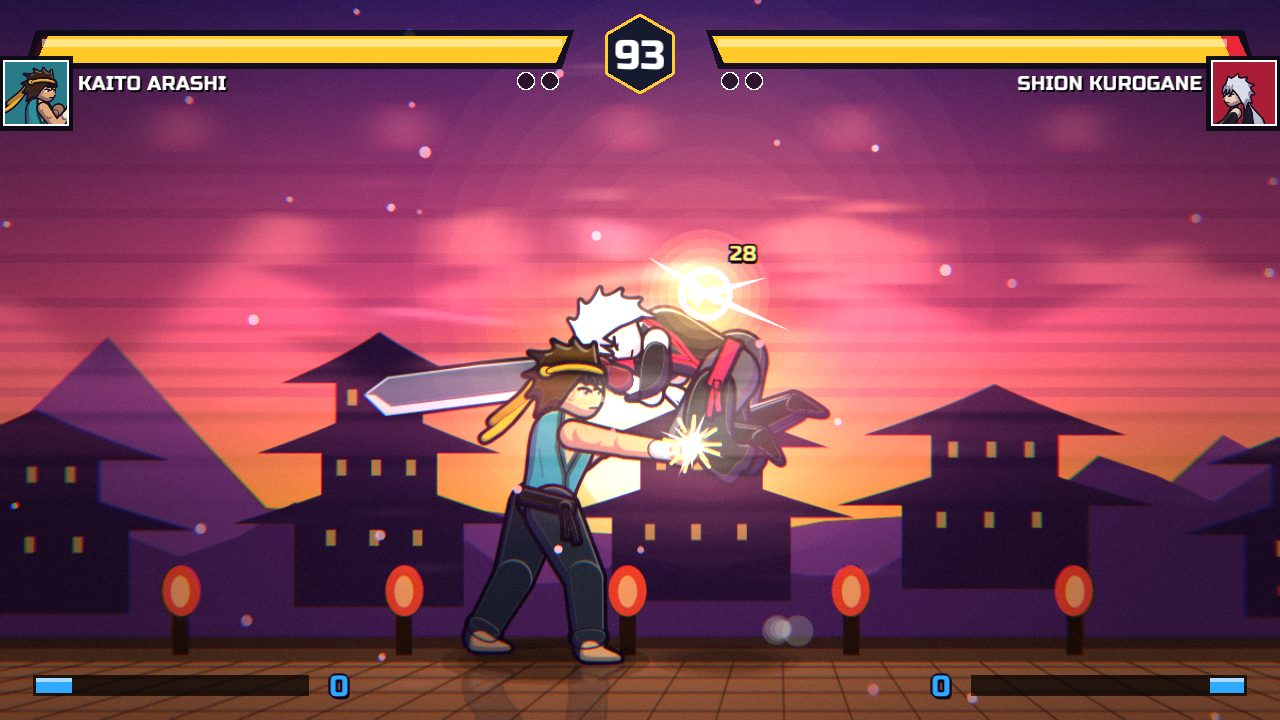
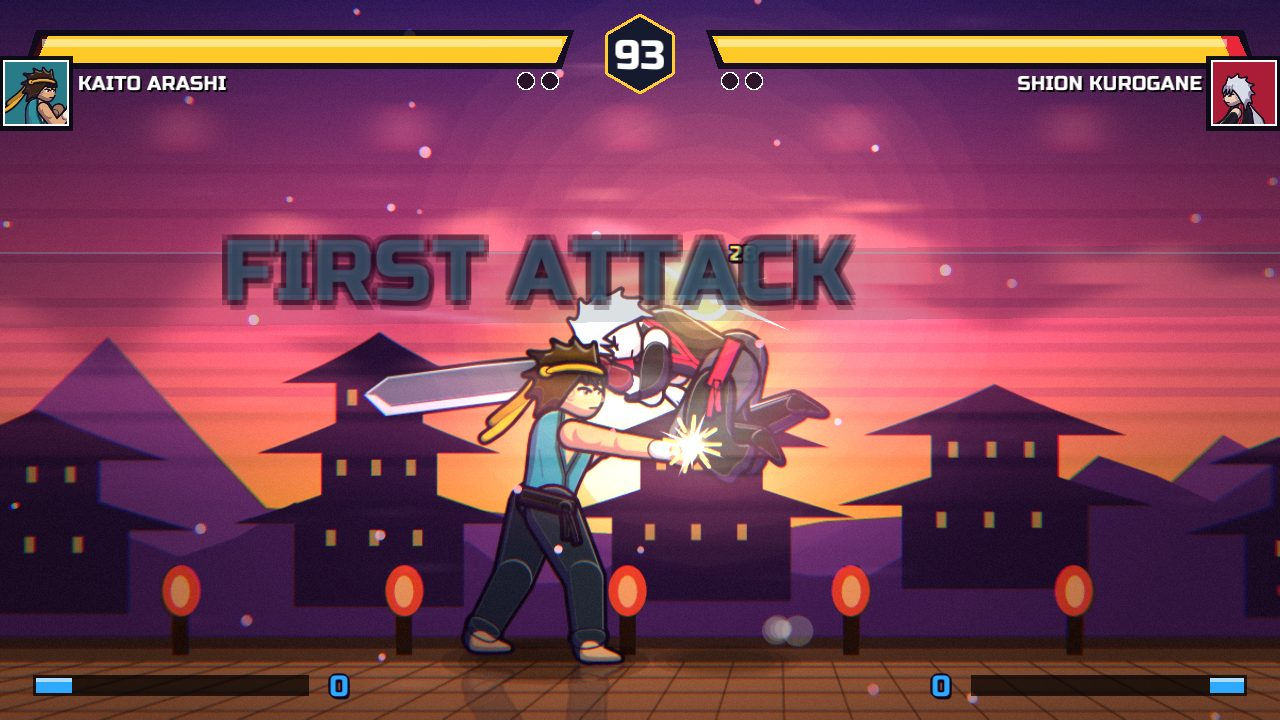
Training input history + last-combo data, FIRST ATTACK notice (research round 6)
- Hud: SF6-style input history (direction arrows, buttons, frames held) and persistent last-combo line in training
- Vfx: FIRST ATTACK banner once per round (not in training)
- docs/AAA_FEATURES.md: HUD / sound / training-mode research with sources; screenshots 40-training-hud, 06-fight-dojo

Claude-Session: https://claude.ai/code/session_01Cn6JQNuQujDi45zt7ta1gL

Changed region(s): [[0.0938, 0.3056, 1.0, 0.4583], [0.0, 0.4278, 0.0312, 0.4583]]

diff --git a/src/hud.rs b/src/hud.rs
@@ -6,10 +6,13 @@ use ume_engine::fighter::Fighter;
 use ume_engine::matchs::Match;
 use crate::session::TeamInfo;
 
-pub struct Hud { trail: [f32; 2], combo: [(i32, f32, i32); 2], pop: [f32; 2], last_hits: [i32; 2] }
+pub struct Hud { pub inputs: Vec<(u32, u16)>, trail: [f32; 2], combo: [(i32, f32, i32); 2], pop: [f32; 2], last_hits: [i32; 2] }
 
 impl Hud {
-    pub fn new() -> Self { Hud { trail: [1.0, 1.0], combo: [(0, 0.0, 0); 2], pop: [0.0; 2], last_hits: [0; 2] } }
+    pub fn new() -> Self { Hud { inputs: vec![], trail: [1.0, 1.0], combo: [(0, 0.0, 0); 2], pop: [0.0; 2], last_hits: [0; 2] } }
+
+    /// Test/demo hook: pretend a combo just finished (shows in the training "last combo" line).
+    pub fn inject_last_combo(&mut self, hits: i32, dmg: f32) { self.combo[0] = (hits, dmg, 0); }
 
     pub fn draw(&mut self, ui: &Ui, g: &mut Gfx, m: &Match, gt: f32, team: Option<&TeamInfo>, human: &[u32]) {
         let s = g.view_scale;
@@ -192,7 +195,33 @@ impl Hud {
             let col = if ko { Color::new(1.0, 0.25, 0.25, al) } else { Color::new(1.0, 0.82, 0.25, al) };
             text(&a.text, w / 2.0, m.view_h * 0.42 + size * 0.35, size, col, Align::Center, true);
         }
-        if m.training { text("TREINO", w / 2.0, 46.0, 7.0, Color::new(1.0, 1.0, 1.0, 0.8), Align::Center, true); }
+        if m.training {
+            text("TREINO", w / 2.0, 46.0, 7.0, Color::new(1.0, 1.0, 1.0, 0.8), Align::Center, true);
+            // attack data: last combo (hits + damage) stays on screen
+            let (hits, dmg) = (self.combo[0].0, self.combo[0].1);
+            if hits >= 2 { text(&format!("ÚLTIMO COMBO  {hits} HITS · {} DMG", dmg as i32), w / 2.0, 56.0, 6.0, hex("#ffcc33"), Align::Center, true); }
+            // input history (newest at the bottom): direction arrow, buttons, frames held
+            let n = self.inputs.len();
+            draw_rectangle(p(6.0, 74.0).x, p(0.0, 74.0).y, 62.0 * s, (n as f32 * 8.2 + 8.0) * s, Color::new(0.02, 0.02, 0.06, 0.55));
+            text("INPUTS", 10.0, 80.0, 5.0, Color::new(1.0, 1.0, 1.0, 0.6), Align::Left, true);
+            use ume_engine::input::k;
+            for (i, (bits, fr)) in self.inputs.iter().enumerate() {
+                let y = 86.0 + i as f32 * 8.2;
+                let a = 0.45 + 0.55 * (i as f32 + 1.0) / n.max(1) as f32;
+                let (dx, dy) = ((bits & k::R != 0) as i32 - (bits & k::L != 0) as i32, (bits & k::D != 0) as i32 - (bits & k::U != 0) as i32);
+                let c = p(14.0, y - 2.0);
+                if dx != 0 || dy != 0 {
+                    let ang = (dy as f32).atan2(dx as f32);
+                    let r = 3.0 * s;
+                    let (tip, l, rr) = (c + vec2(ang.cos(), ang.sin()) * r, c + vec2((ang + 2.5).cos(), (ang + 2.5).sin()) * r, c + vec2((ang - 2.5).cos(), (ang - 2.5).sin()) * r);
+                    draw_triangle(tip, l, rr, Color::new(0.4, 0.9, 1.0, a));
+                } else { draw_circle(c.x, c.y, 0.9 * s, Color::new(1.0, 1.0, 1.0, a * 0.5)); }
+                let names = [(k::X, "LP"), (k::Y, "HP"), (k::A, "LK"), (k::B, "HK"), (k::D2, "S1"), (k::W, "S2"), (k::E, "S3")];
+                let btn: Vec<&str> = names.iter().filter(|(b, _)| bits & b != 0).map(|(_, n)| *n).collect();
+                if !btn.is_empty() { text(&btn.join("+"), 22.0, y, 5.0, Color::new(1.0, 0.85, 0.3, a), Align::Left, true); }
+                text(&fr.to_string(), 64.0, y, 4.6, Color::new(1.0, 1.0, 1.0, a * 0.55), Align::Right, true);
+            }
+        }
         let _ = gt;
     }
 }

diff --git a/src/vfx.rs b/src/vfx.rs
@@ -42,7 +42,7 @@ pub struct Vfx {
     sz: f32, super_active: bool,
     /// sound requests produced by the effects layer (drained by the session)
     pub sfx: Vec<&'static str>,
-    combo: [i32; 2], meter: [i32; 2],
+    combo: [i32; 2], meter: [i32; 2], first_hit: bool,
     snap: Vec<Snap>, pre_mt: Vec<char>, rng: u32, tick: u32,
 }
 
@@ -51,7 +51,7 @@ fn lerp(a: f32, b: f32, t: f32) -> f32 { a + (b - a) * t }
 impl Vfx {
     pub fn new() -> Self {
         Vfx { splats: vec![], lights: vec![], weather: Weather::None, clock: 0.0, invert_t: 0.0, dist_zoom: 0.0, dist_target: 0.0, parts: vec![], rings: vec![], floats: vec![], banners: vec![], trauma: 0.0, punch: 0.0, ko_t: 0.0, ko_focus: (0.0, 0.0), slow_t: 0.0, chroma: 0.0, flash: 0.0, radial: 0.0, vig: 0.0, lines: 0.0,
-            lines_col: [1.0, 1.0, 1.0], sat_pulse: 0.0, super_t: 0.0, super_owner: 0, sz: 0.0, super_active: false, sfx: vec![], combo: [0; 2], meter: [0; 2], snap: vec![], pre_mt: vec![], rng: 0x9e37_79b9, tick: 0 }
+            lines_col: [1.0, 1.0, 1.0], sat_pulse: 0.0, super_t: 0.0, super_owner: 0, sz: 0.0, super_active: false, sfx: vec![], combo: [0; 2], meter: [0; 2], first_hit: false, snap: vec![], pre_mt: vec![], rng: 0x9e37_79b9, tick: 0 }
     }
     fn r(&mut self) -> f32 { let mut x = self.rng; x ^= x << 13; x ^= x >> 17; x ^= x << 5; self.rng = x; x as f32 / 4294967296.0 }
     fn rr(&mut self, a: f32, b: f32) -> f32 { a + (b - a) * self.r() }
@@ -164,6 +164,8 @@ impl Vfx {
                     self.flash = self.flash.max(0.18);
                     self.punch = self.punch.max(0.04);
                 }
+                // SF6-style pop-up notice for the first clean hit of the round
+                if !self.first_hit && m.round_state == 2 && !m.training { self.first_hit = true; self.banner("FIRST ATTACK", "", [0.4, 0.9, 1.0]); }
                 let counter = self.pre_mt.get(*defender).copied() == Some('A');
                 let _ = defender_side;
                 let col = if counter { [1.0, 0.35, 0.3] } else { [1.0, 0.92, 0.55] };
@@ -199,7 +201,7 @@ impl Vfx {
                 if m.roots().find(|f| f.side == w).is_some_and(|f| f.life >= f.life_max - 0.5) { self.sfx.push("perfect"); self.banner("PERFECT!", "vitória sem sofrer dano", [1.0, 0.85, 0.2]); }
             }
             Event::Fight => { self.ring(m.camera.x, m.stage.zoffset - 60.0, 160.0, 0.6, 3.0, [1.0, 0.8, 0.3]); self.flash = self.flash.max(0.35); self.chroma = self.chroma.max(0.7); self.trauma = (self.trauma + 0.25).min(1.0); self.radial = 0.6; }
-            Event::RoundStart(_) => { self.slow_t = 0.0; self.ko_t = 0.0; }
+            Event::RoundStart(_) => { self.slow_t = 0.0; self.ko_t = 0.0; self.first_hit = false; }
             _ => {}
         }
     }

diff --git a/src/session.rs b/src/session.rs
@@ -33,6 +33,8 @@ pub struct Session {
     acc: f32,
     pub over: Option<usize>,
     pub over_timer: f32,
+    /// last inputs of the human player as (bits, frames held) — shown in training mode (SF6-style input history)
+    pub inputs: Vec<(u32, u16)>,
 }
 
 thread_local! { static FX: Arc<CharDef> = build_fx(true); }
@@ -64,7 +66,7 @@ impl Session {
         let r = MatchRenderer::new(&stage);
         let mut vfx = Vfx::new();
         vfx.weather = crate::vfx::Weather::for_stage(&stage.info.name);
-        Session { team: None, m, stage, r, hud: Hud::new(), vfx, pilots, duo, paused: false, acc: 0.0, over: None, over_timer: 0.0 }
+        Session { team: None, m, stage, r, hud: Hud::new(), vfx, pilots, duo, paused: false, acc: 0.0, over: None, over_timer: 0.0, inputs: vec![] }
     }
 
     fn mugen_macro(facing: f32, which: u32) -> Vec<u32> {
@@ -99,6 +101,10 @@ impl Session {
                     b
                 }
             };
+        }
+        if let Some(slot) = self.pilots.iter().position(|p| matches!(p, Pilot::Human(0))) {
+            let b = bits.get(slot).copied().unwrap_or(0);
+            match self.inputs.last_mut() { Some(l) if l.0 == b => l.1 = (l.1 + 1).min(99), _ => { self.inputs.push((b, 1)); if self.inputs.len() > 14 { self.inputs.remove(0); } } }
         }
         self.vfx.pre_tick(&self.m);
         self.m.tick(&bits);
@@ -179,6 +185,7 @@ impl Session {
         let p = self.r.draw(g, &self.m, &self.stage, &mut self.vfx, ui);
         g.post.end(&p, ui.t);
         let human = self.human_ids();
+        self.hud.inputs = if self.m.training { self.inputs.clone() } else { vec![] };
         self.hud.draw(ui, g, &self.m, ui.t, self.team.as_ref(), &human);
         self.vfx.draw_banners(ui);
     }

diff --git a/src/shots.rs b/src/shots.rs
@@ -109,6 +109,21 @@ pub async fn run(app: &mut App, dir: &str) {
     team_fight(app, dir, "31-team-parallel", true, 2, "neon", 260, false).await;
     team_fight(app, dir, "33-team-5v5-parallel", true, 5, "plains", 330, true).await;
     team_fight(app, dir, "34-team-5v5-sequence", false, 5, "volcano", 200, true).await;
+    // training mode: SF6-style input history + last-combo data (inputs injected, there is no keyboard in the tour)
+    {
+        use ume_engine::input::k;
+        app.mode = Mode::Training;
+        app.sel = (find(app, "kaito"), find(app, "suzume"), stage(app, "dojo"));
+        app.team = None;
+        app.start_fight().await;
+        let App { session, c, audio, .. } = app;
+        let s = session.as_mut().unwrap();
+        for _ in 0..160 { s.step_visual(c, audio); }
+        s.inputs = vec![(0, 20), (k::D, 3), (k::D | k::R, 3), (k::R, 4), (k::R | k::X, 2), (0, 12), (k::X, 2), (0, 8), (k::Y, 2), (k::D, 5), (k::D | k::A, 2), (0, 9), (k::R, 6), (k::R | k::W, 2)];
+        for _ in 0..3 { s.step_visual(c, audio); }
+        s.hud.inject_last_combo(7, 214.0);
+    }
+    snap(app, dir, "40-training-hud", |a| a.draw_session_only()).await;
     fight(app, dir, "11-hitboxes", "shion", "kaito", "plains", 200, "boxes").await;
     fight(app, dir, "11b-fight-kaname-valdric", "kaname", "valdric", "spirit", 300, "hit").await;
     fight(app, dir, "11c-fight-daichi-jin", "daichi", "jin", "plains", 300, "proj").await;

diff --git a/docs/AAA_FEATURES.md b/docs/AAA_FEATURES.md
@@ -95,3 +95,13 @@ Fontes (resumos de busca; as páginas primárias de Capcom/Epic/GDC não resolve
 - **Game feel**: manter feedback separado da lógica e oferecer opção de reduzir efeitos (já em *Vídeo → Efeitos de impacto*).
 
 Correção visual desta rodada: o glifo "✕" não existe na fonte de exibição; caídos agora são marcados com uma cruz desenhada.
+
+---
+
+# Rodada 6 — pesquisa de HUD, som e modo treino
+
+Fontes (resumos de busca; sites primários bloqueados pela política de rede da sessão):
+- **HUD do SF6** — [SuperCombo Wiki](https://wiki.supercombo.gg/w/Street_Fighter_6/HUD), [manual oficial](https://game.capcom.com/manual/SF6/en/ps5/page/3/3), [guia de HUD](https://www.argentics.io/game-hud-design): avisos pop-up para **first attack, counter hit**, throw escape e reversal; estados sinalizados por **cor** (o Drive Gauge fica cinza vazio); a leitura do HUD precisa **sobreviver a blur, tremor, pós-processamento e escalas menores** → nosso HUD é desenhado *depois* do pós-processo (nunca recebe blur/aberração) e ganhou o banner **FIRST ATTACK** (uma vez por round, fora do treino).
+- **Modo treino moderno** — [EventHubs](https://www.eventhubs.com/news/2022/sep/16/sf6-training-visual-frame-data/), [Fighters Generation](https://www.fightersgeneration.com/news1/sf6-sep22-6.htm): **histórico de inputs**, dados do ataque (dano do combo), HUD configurável → no **Treino**: histórico dos últimos 14 inputs (seta de direção, botões, frames segurados) e linha "ÚLTIMO COMBO · hits · dano".
+- **Design de som** — [guia Pixflow](https://pixflow.net/blog/punch-impact-sound-effects-for-fight-scenes/), [SoundBridge](https://www.soundbridge.io/game-audio-soundbridge-fighting-game-scene): soco = **transiente curto + corpo grave + (voz)**, 2–4 camadas **separadas por faixa de frequência**, variações e **ducking da música** nos impactos → já implementado (transiente em passa-alta, corpo em queda de pitch, crunch em banda, 3 variações em rodízio, ducking em super/KO).
+- Tekken 8: nada confiável sobre HUD/treino nas buscas; tratado como não verificado.
